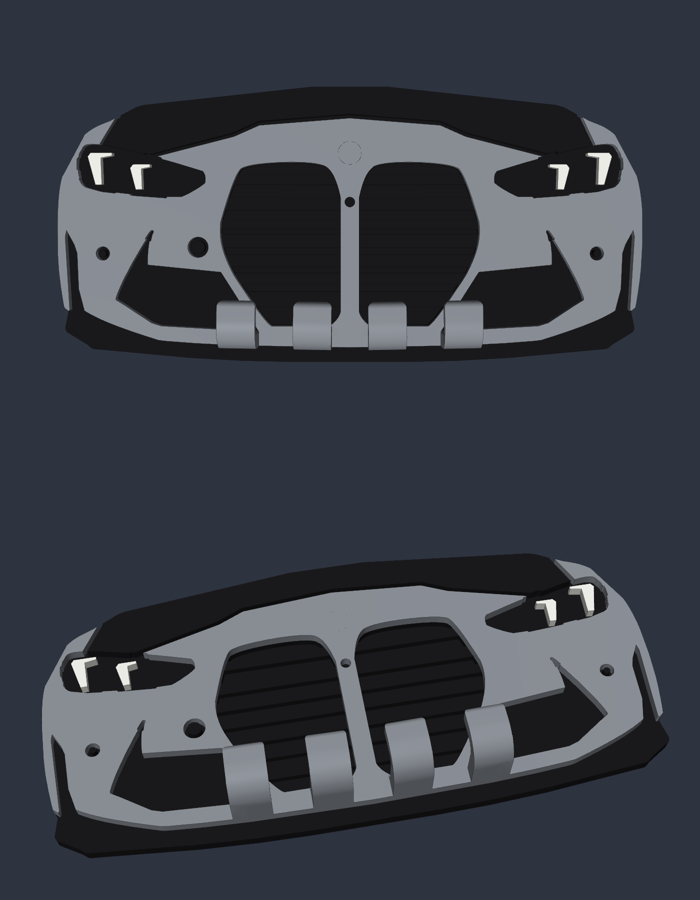
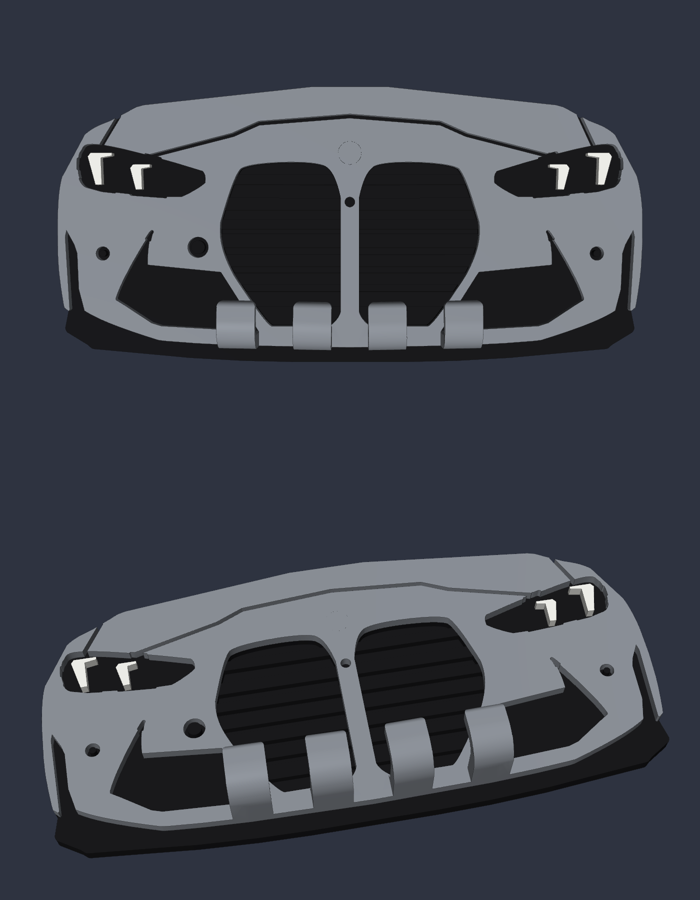
G80 wall key holder: hood in the body colour (user)
Claude-Session: https://claude.ai/code/session_01Dr1KFFnUvGu5knyxFWUk2f

Changed region(s): [[0.15, 0.0933, 0.84, 0.1867], [0.12, 0.5911, 0.81, 0.7467]]

diff --git a/kc/wall/build_wall_snakeeye.py b/kc/wall/build_wall_snakeeye.py
@@ -1,6 +1,6 @@
 """G80 wall key holder (user's G80_WallKeyholder_user.step), custom-colour snake-eye version.
-3 filaments like the custom-colour keychains: 1 = black (back plate, hood, sensor dots, tow-hook ring),
-2 = body colour (body with the key hooks), 3 = white (the snake-eye DRL bars).
+3 filaments like the custom-colour keychains: 1 = black (back plate, sensor dots, tow-hook ring),
+2 = body colour (body with the key hooks, hood), 3 = white (the snake-eye DRL bars).
 Changes vs the user's STEP: stock DRL pieces replaced by the snake-eye bars (kc/cars/_snakeeye.py TEMPLATE, fitted
 to these lamps); BMW roundel removed and its hole filled flush (no-logo rule).
 usage (from anywhere):  python kc/wall/build_wall_snakeeye.py      -> kc/wall/out/"""
@@ -16,7 +16,7 @@ sys.path.insert(0, os.path.join(KC, 'lib')); sys.path.insert(0, os.path.join(KC,
 from geom import polys, clean
 import _snakeeye
 
-HOOD = 'black'          # 'black' = carbon hood like the user's car; 'body' = hood in the body colour
+HOOD = 'body'           # user 2026-10-01: hood in the body colour ('black' = carbon hood)
 OUT = os.path.join(HERE, 'out'); os.makedirs(OUT, exist_ok=True)
 BOOL = dict(engine='manifold')
 
